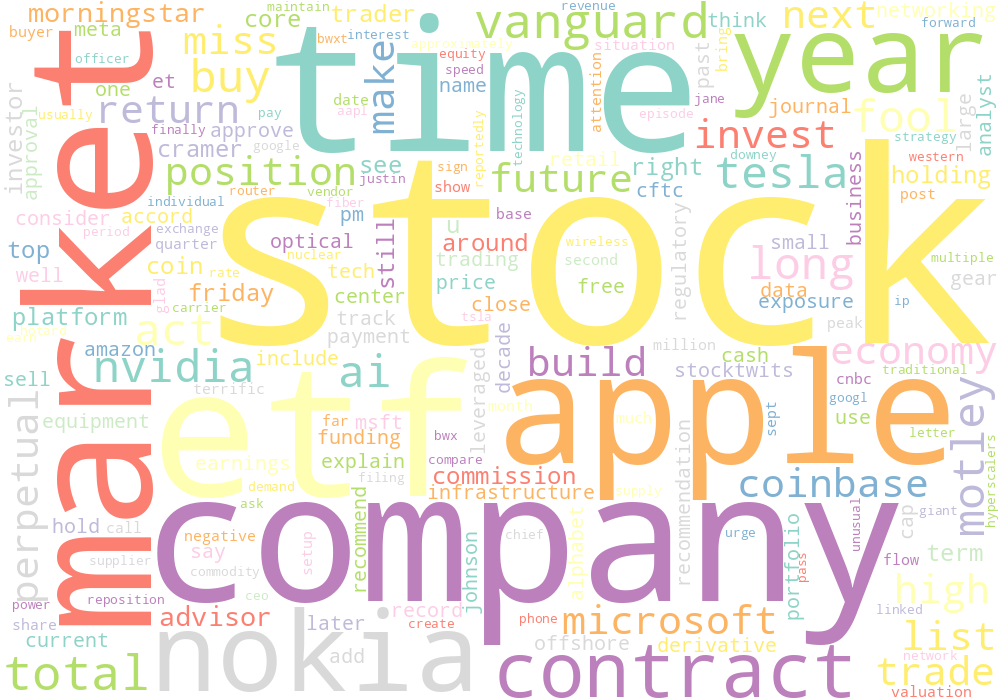
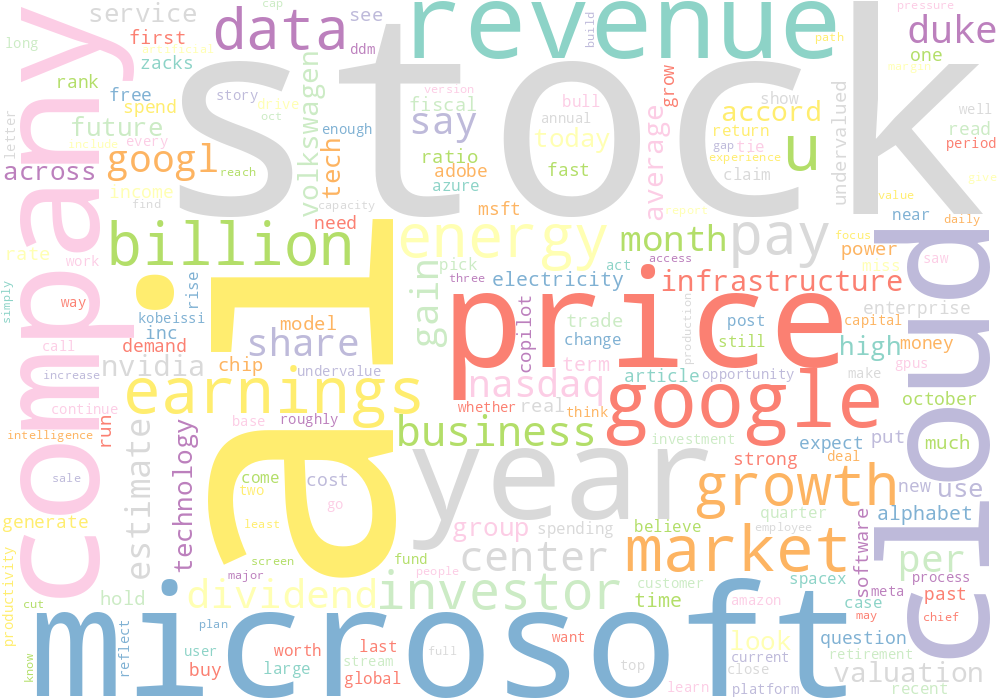
Integrated text analyzer into stock analysis

diff --git a/analyze.py b/analyze.py
@@ -115,51 +115,52 @@ def cleanseWordList(posTaggedWordTuples):
             cleanseWords.append(wordLemmatizer.lemmatize(cleanseWord, treebankPosToWordnetPos(pos)))
     return cleanseWords
 
-#Get user details
-welcomeUser()
-username = getUsername()
-greetUser(username)
 
-# Extract and tokenizetext
-articleTextRaw =  getArticleText()
-articleSentences = tokenizeSentences(articleTextRaw)
-articleWords = tokenizeWords(articleSentences)
+def analyzeText(TextToAnalyze):
+    articleSentences = tokenizeSentences(TextToAnalyze)
+    articleWords = tokenizeWords(articleSentences)
 
-# Get sentence analytics
-stockSearchPattern = "[0-9]|[%$£₤]|thousand|million|billion|thrillion|profit|loss"
-keySentences = extractKeySentences(articleSentences, stockSearchPattern)
-wordsPerSentence = getWordsPerSentence(articleSentences)
+    # Get sentence analytics
+    stockSearchPattern = "[0-9]|[%$£₤]|thousand|million|billion|thrillion|profit|loss"
+    keySentences = extractKeySentences(articleSentences, stockSearchPattern)
+    wordsPerSentence = getWordsPerSentence(articleSentences)
 
-# Get word analytics
-wordsPosTagged = nltk.pos_tag(articleWords)
-articleWordsCleansed = cleanseWordList(wordsPosTagged)
+    # Get word analytics
+    wordsPosTagged = nltk.pos_tag(articleWords)
+    articleWordsCleansed = cleanseWordList(wordsPosTagged)
 
-# Generate word cloud
-separator = " "
-wordCloudFilePath = "results/wordcloud.png"
-wordcloud = WordCloud(width= 1000, height=700, \
-                      background_color="white", colormap="Set3", collocations=False).generate(separator.join(articleWordsCleansed))
-wordcloud.to_file(wordCloudFilePath)
+    # Generate word cloud
+    separator = " "
+    wordCloudFilePath = "results/wordcloud.png"
+    wordcloud = WordCloud(width= 1000, height=700, \
+                        background_color="white", colormap="Set3", collocations=False).generate(separator.join(articleWordsCleansed))
+    wordcloud.to_file(wordCloudFilePath)
 
-# Run sentiment analysis
-sentimentResult = sentimentAnalyzer.polarity_scores(articleTextRaw)
+    # Run sentiment analysis
+    sentimentResult = sentimentAnalyzer.polarity_scores(TextToAnalyze)
 
-# Collate analyses into one dictionary
-finalResult = {
-    "username": username,
-    "data": {
-        "keySentences": keySentences,
-        "wordsPerSentence": round(wordsPerSentence,1),
-        "sentiment": sentimentResult,
-        "wordCloudFilePath": wordCloudFilePath,
-    },
-    "metadata": {
-        "sentencesAnalyzed": len(articleSentences),
-        "wordsAnalayzed": len(articleWordsCleansed)
+    # Collate analyses into one dictionary
+    finalResult = {
+        "data": {
+            "keySentences": keySentences,
+            "wordsPerSentence": round(wordsPerSentence,1),
+            "sentiment": sentimentResult,
+            "wordCloudFilePath": wordCloudFilePath,
+        },
+        "metadata": {
+            "sentencesAnalyzed": len(articleSentences),
+            "wordsAnalayzed": len(articleWordsCleansed)
+        }
     }
-}
 
-finalResultJson =json.dumps(finalResult, indent=4)
+    return finalResult
 
-# Print for testing
-print(finalResultJson)
+def runAsfile():
+    #Get user details
+    welcomeUser()
+    username = getUsername()
+    greetUser(username)
+
+    # Extract and tokenizetext
+    articleTextRaw =  getArticleText()
+    analyzeText(articleTextRaw)

diff --git a/stockAnalyze.py b/stockAnalyze.py
@@ -1,7 +1,9 @@
+import json
 import yfinance as yf
 import requests
 from datetime import datetime
 from bs4 import BeautifulSoup
+import analyze
 
 def extractBasicInfo(data):
     keysToExtract = ["longName", "website", "sector", "fullTimeEmployees", "marketCap", "totalRevenue", "trailingEps"]
@@ -83,6 +85,12 @@ def getCompanyStockInfo(tickerSymbol):
     futureEarningsDates = getEarningsDates(company)
     newsArticle = getCompanyNews(company)
     newsArticlesAllText = extractCompanyNewsArticles(newsArticle)
+    newsTextAnalysis = analyze.analyzeText(newsArticlesAllText)
+
+    finalResultJson =json.dumps(newsTextAnalysis, indent=4)
+
+    # Print for testing
+    print(finalResultJson)
     print(newsArticlesAllText)
 
 getCompanyStockInfo("MSFT")
